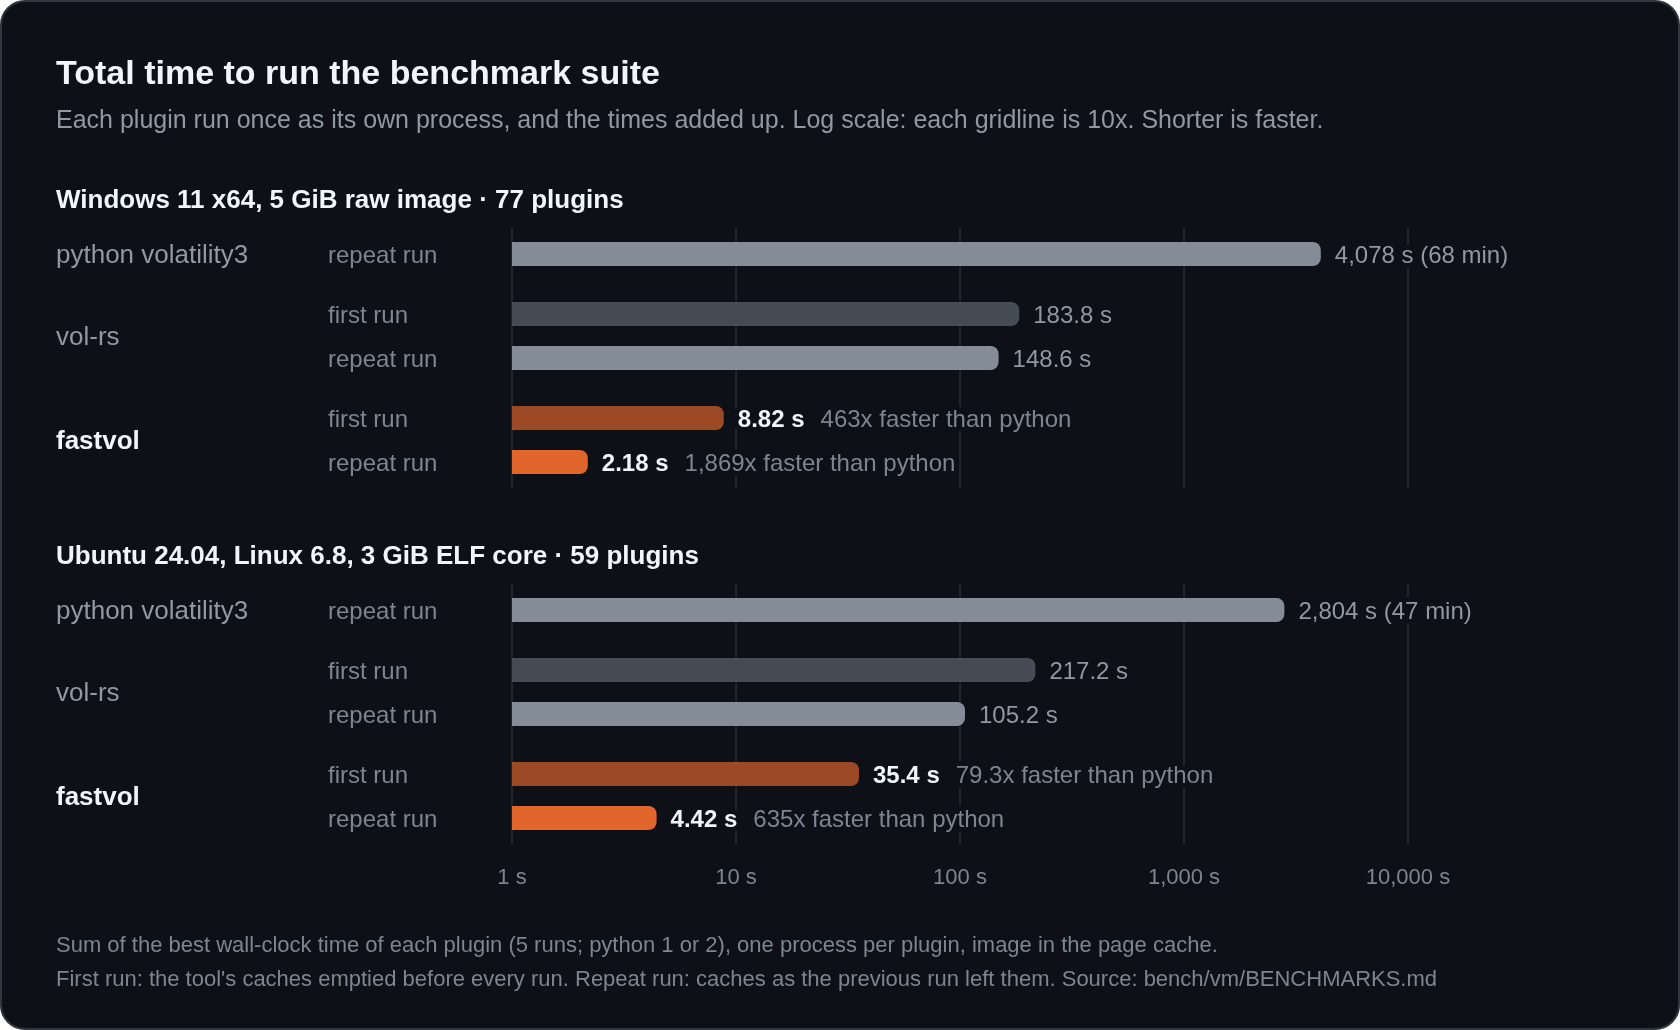
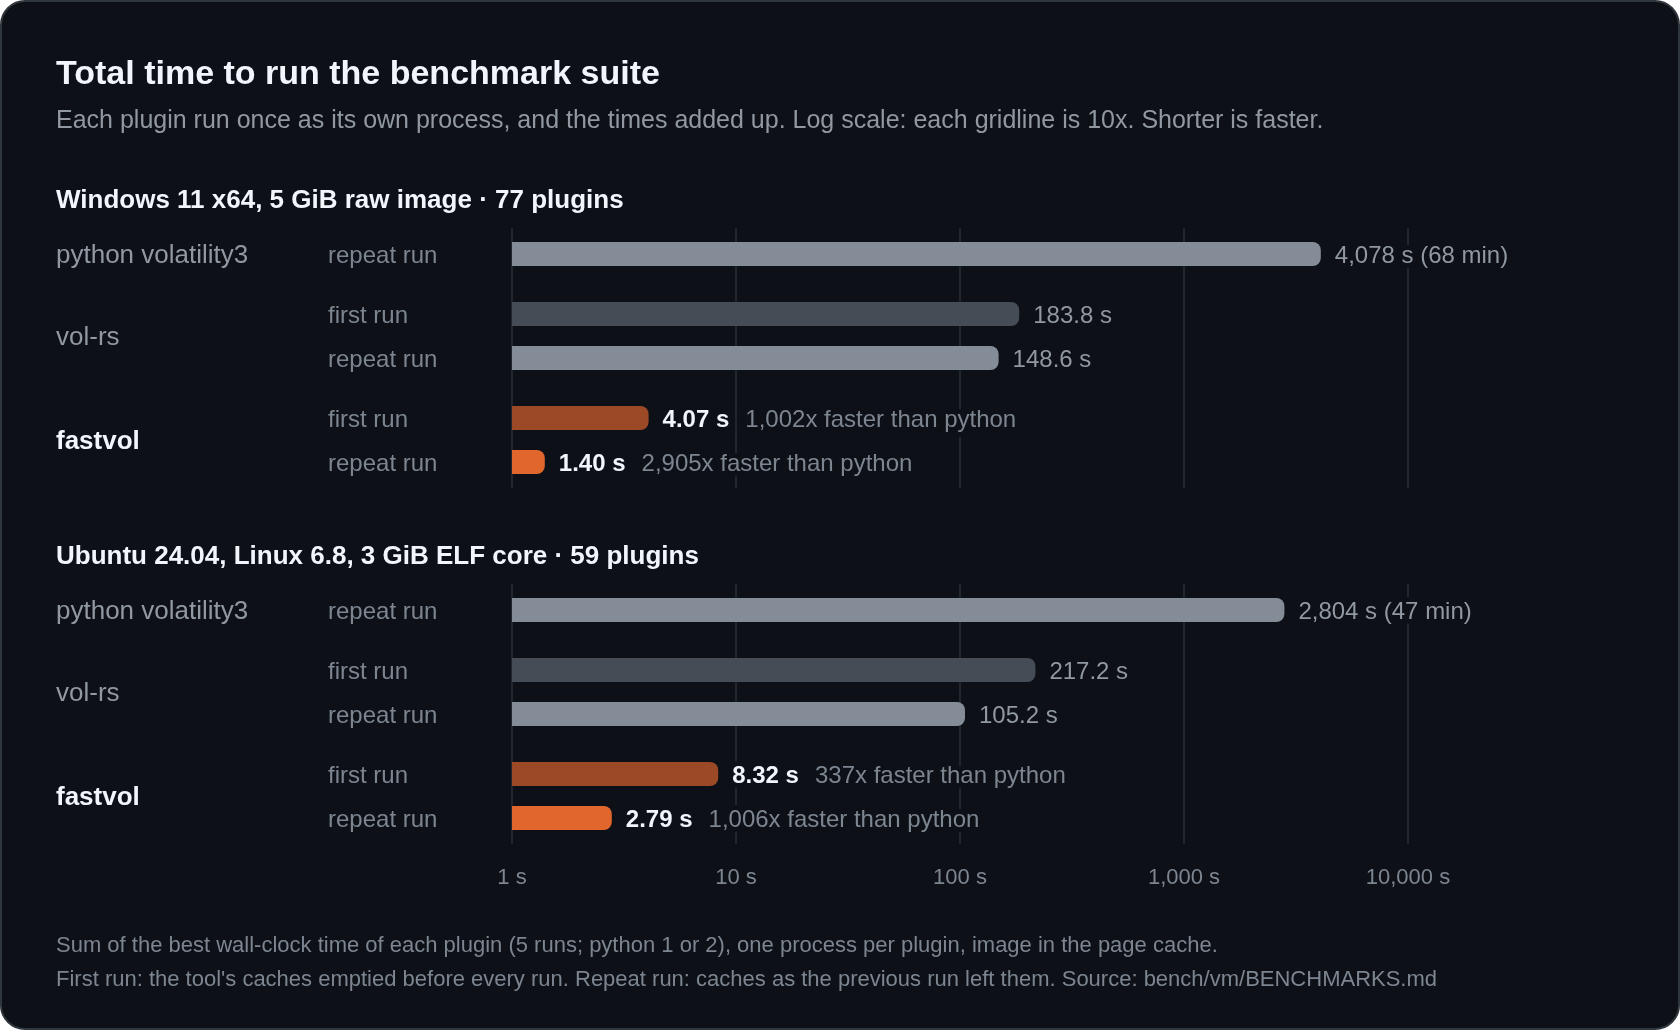
docs: pass 3 numbers in the README, the benchmark chart and docs
build.py reads the "fastvol cold" / "fastvol warm" headline columns; chart,
dark chart and PNG previews rebuilt. README: Performance table and alt text
from bench/vm/BENCHMARKS.md (pass 3), Highlights as total time of repeat
runs per OS (python 1,006-2,905x, vol-rs 38-106x), lazy-table footnote
dropped (now the plain cold column), output footnote matches the checks.
architecture.md: the lazy-table rerun link points at BENCHMARKS-run2.md,
warm pslist 2.5 ms; building.md: the benchmark's toolchain.

Changed region(s): [[0.3405, 0.7146, 0.7119, 0.8078], [0.3095, 0.3728, 0.619, 0.466]]

diff --git a/docs/assets/build.py b/docs/assets/build.py
@@ -179,8 +179,8 @@ def build_chart():
                     ("first run", seconds(total["vol-rs cold"]), None, None),
                     ("repeat run", seconds(total["vol-rs warm"]), None, None)]),
                 ("fastvol", "accent", [
-                    ("first run", seconds(total["rsvol cold"]), None, speedup(speed["rsvol cold"], 0)),
-                    ("repeat run", seconds(total["rsvol warm"]), None, speedup(speed["rsvol warm"], 0))]),
+                    ("first run", seconds(total["fastvol cold"]), None, speedup(speed["fastvol cold"], 0)),
+                    ("repeat run", seconds(total["fastvol warm"]), None, speedup(speed["fastvol warm"], 0))]),
             ]))
 
     def render(theme):

diff --git a/README.md b/README.md
@@ -31,7 +31,7 @@
 <p align="center">
   <picture>
     <source media="(prefers-color-scheme: dark)" srcset="docs/assets/benchmark-dark.svg">
-    <img alt="Bar chart on a log scale of the total time to run each benchmark plugin once. Windows 11, 77 plugins: python volatility3 4,078 s; vol-rs 183.8 s on a first run and 148.6 s on a repeat run; fastvol 8.82 s and 2.18 s. Linux 6.8, 59 plugins: python volatility3 2,804 s; vol-rs 217.2 s and 105.2 s; fastvol 35.4 s and 4.42 s." src="docs/assets/benchmark.svg" width="840">
+    <img alt="Bar chart on a log scale of the total time to run each benchmark plugin once. Windows 11, 77 plugins: python volatility3 4,078 s; vol-rs 183.8 s on a first run and 148.6 s on a repeat run; fastvol 4.07 s and 1.40 s. Linux 6.8, 59 plugins: python volatility3 2,804 s; vol-rs 217.2 s and 105.2 s; fastvol 8.32 s and 2.79 s." src="docs/assets/benchmark.svg" width="840">
   </picture>
 </p>
 
@@ -39,7 +39,7 @@
 
 - **All 197 plugins** of volatility3 2.28.2, with the same options, `--help`, errors and exit codes.
 - **Byte-identical output** to python volatility3 on 31 images, Windows XP to 11, Linux 3.2 to 7.0, macOS.
-- **635-1,869x faster than python**, 6-68x faster than vol-rs.
+- **1,006-2,905x faster than python**, 38-106x faster than vol-rs (total time of repeat runs, Linux to Windows).
 - **Zero dependencies**: one static binary, Rust standard library only.
 - **Every common format**: raw, LiME, ELF core, crash dump, VMware, QEMU, AVML, Xen, gzip/bzip2/xz.
 - **Built-in web UI**: `fvol serve`.
@@ -116,15 +116,14 @@ Dedicated 32-vCPU KVM guest, image in page cache, sum of per-plugin best of 5
 
 |                              | python | vol-rs cold | vol-rs warm | fastvol cold | fastvol warm |
 | ---------------------------- | -----: | ----------: | ----------: | -----------: | -----------: |
-| Windows 11, 77 plugins       | 4078 s |     183.8 s |     148.6 s |       8.82 s |       2.18 s |
-| Windows, median plugin       | 4.49 s |      624 ms |      164 ms |      68.6 ms |       8.6 ms |
-| Linux 6.8, 59 plugins        | 2804 s |     217.2 s |     105.2 s |     35.4 s ¹ |       4.42 s |
-| Linux, median plugin         | 18.3 s |      2.23 s |      311 ms |     541 ms ¹ |       9.8 ms |
-| `windows.pslist` startup     | 1.87 s |      563 ms |     80.6 ms |      64.7 ms |       3.3 ms |
-| Output identical to python   |    ref |     104/136 |     104/136 |    136/136 ² |    136/136 ² |
+| Windows 11, 77 plugins       | 4078 s |     183.8 s |     148.6 s |       4.07 s |       1.40 s |
+| Windows, median plugin       | 4.49 s |      624 ms |      164 ms |      22.8 ms |       5.2 ms |
+| Linux 6.8, 59 plugins        | 2804 s |     217.2 s |     105.2 s |       8.32 s |       2.79 s |
+| Linux, median plugin         | 18.3 s |      2.23 s |      311 ms |      92.3 ms |       5.3 ms |
+| `windows.pslist` startup     | 1.98 s |      546 ms |     78.5 ms |      19.1 ms |       2.5 ms |
+| Output identical to python   |    ref |     104/136 |     104/136 |    136/136 ¹ |    136/136 ¹ |
 
-¹ 10.83 s total / 110 ms median with lazy symbol tables ([rerun](bench/vm/BENCHMARKS.md#first-runs-with-lazy-symbol-tables-rsvol-cold-rerun)).<br>
-² 132 byte for byte; 4 compared sorted or against the reference machine, as python's own order varies ([details](docs/differences.md)).
+¹ 132 byte for byte (2 against a python rerun, as python's symbol paths changed); 4 compared sorted or against the reference machine, as python's own order varies ([details](docs/differences.md)).
 
 Why it's fast: memory-mapped images and symbol tables, all-core scanning, lazy loading,
 content-keyed caches that can't change output, and from-scratch libraries that beat the C

diff --git a/docs/architecture.md b/docs/architecture.md
@@ -94,7 +94,7 @@ specially (repeated names, for python's dictionary semantics), is not taken lazi
 64 MB Ubuntu 24.04 kernel ISF, the lazy index takes about 13 ms instead of the full build's
 47 ms on a 20-thread desktop CPU; on the 32-vCPU benchmark VM a first `linux.pslist` went from
 0.51 s to 0.11 s, faster than vol-rs with a warm cache (see
-[bench/vm/BENCHMARKS.md](../bench/vm/BENCHMARKS.md)).
+[bench/vm/BENCHMARKS-run2.md](../bench/vm/BENCHMARKS-run2.md#first-runs-with-lazy-symbol-tables-rsvol-cold-rerun)).
 
 The full binary table of a lazy table is built after the plugin's output is complete: `main`
 flushes the output and then hands each such ISF to a helper process, this executable started in
@@ -251,7 +251,7 @@ The design rule is to know the hardware and do the minimum work. The techniques,
 | Caching                       | Symbol tables, the identifier index, automagic results and raw scan hits. |
 | Speculation                   | Likely kernel symbol tables are built while the scans that confirm them run. |
 | Laziness                      | A first run resolves only the types and symbols it uses; the full symbol table is built by a detached helper after the output. |
-| Fixed per-run cost            | A static-pie binary without dynamic loading, hot code laid out together and mapped with huge pages where the kernel allows, a C `main` that skips most of the Rust runtime setup, a lazy `Context`, cache writes on background threads that finish after the output, and the address-space teardown moved to a helper that finishes after the exit ([building.md](building.md#startup)). A warm `windows.pslist.PsList` takes about 2 ms on the benchmark VM. |
+| Fixed per-run cost            | A static-pie binary without dynamic loading, hot code laid out together and mapped with huge pages where the kernel allows, a C `main` that skips most of the Rust runtime setup, a lazy `Context`, cache writes on background threads that finish after the output, and the address-space teardown moved to a helper that finishes after the exit ([building.md](building.md#startup)). A warm `windows.pslist.PsList` takes 2.5 ms on the benchmark VM ([bench/vm/BENCHMARKS.md](../bench/vm/BENCHMARKS.md)). |
 | Allocation-free inner loops   | Precomputed member offsets, compact 8-byte rows in the timeliner merge, table-driven cell formatting. |
 
 Each from-scratch library is benchmarked against its reference implementation on the same input

diff --git a/docs/building.md b/docs/building.md
@@ -10,8 +10,8 @@ Applies to fastvol 0.1.0.
 
 You need a Rust toolchain of version 1.95 or newer, the `rust-version` in `Cargo.toml`: the
 project uses edition 2024 and `std::hint::cold_path`, which was stabilized in 1.95. Stable 1.95.0
-builds it and passes the tests and parity gates. The published benchmarks were built with rustc
-1.98.1. Linux on x86-64 is the tested platform.
+builds it and passes the tests and parity gates. The published benchmark was built with rustc
+1.100.0-nightly (2026-09-21), the earlier runs with 1.98.1. Linux on x86-64 is the tested platform.
 
 ## Build profiles
 
